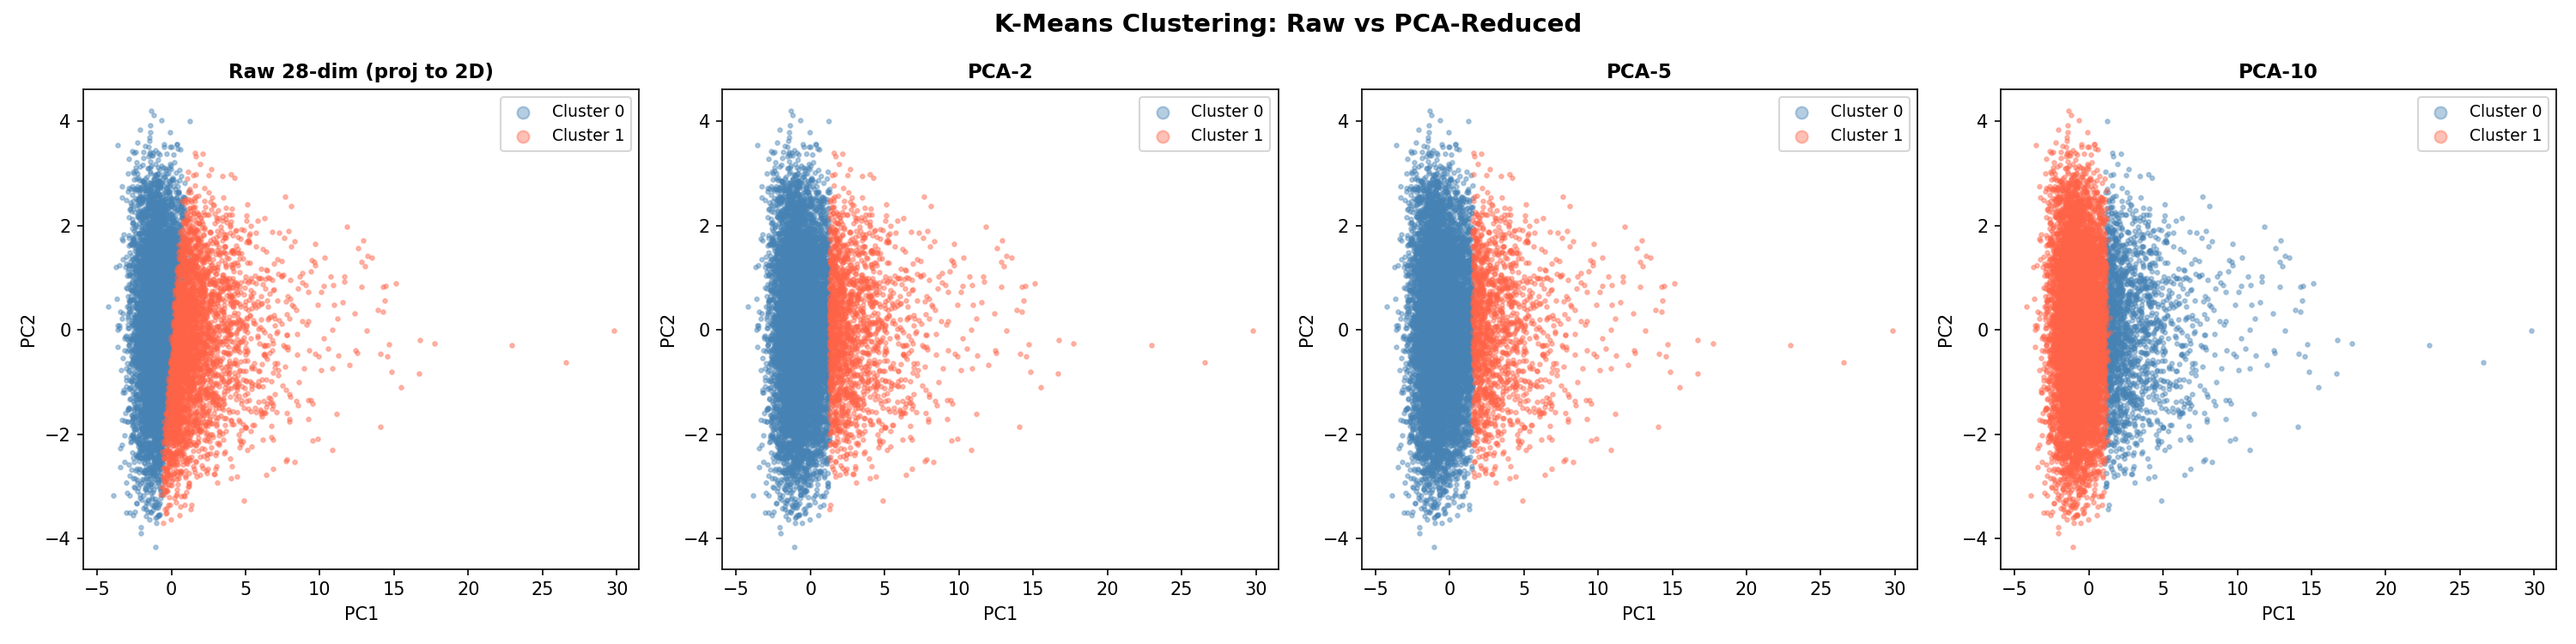
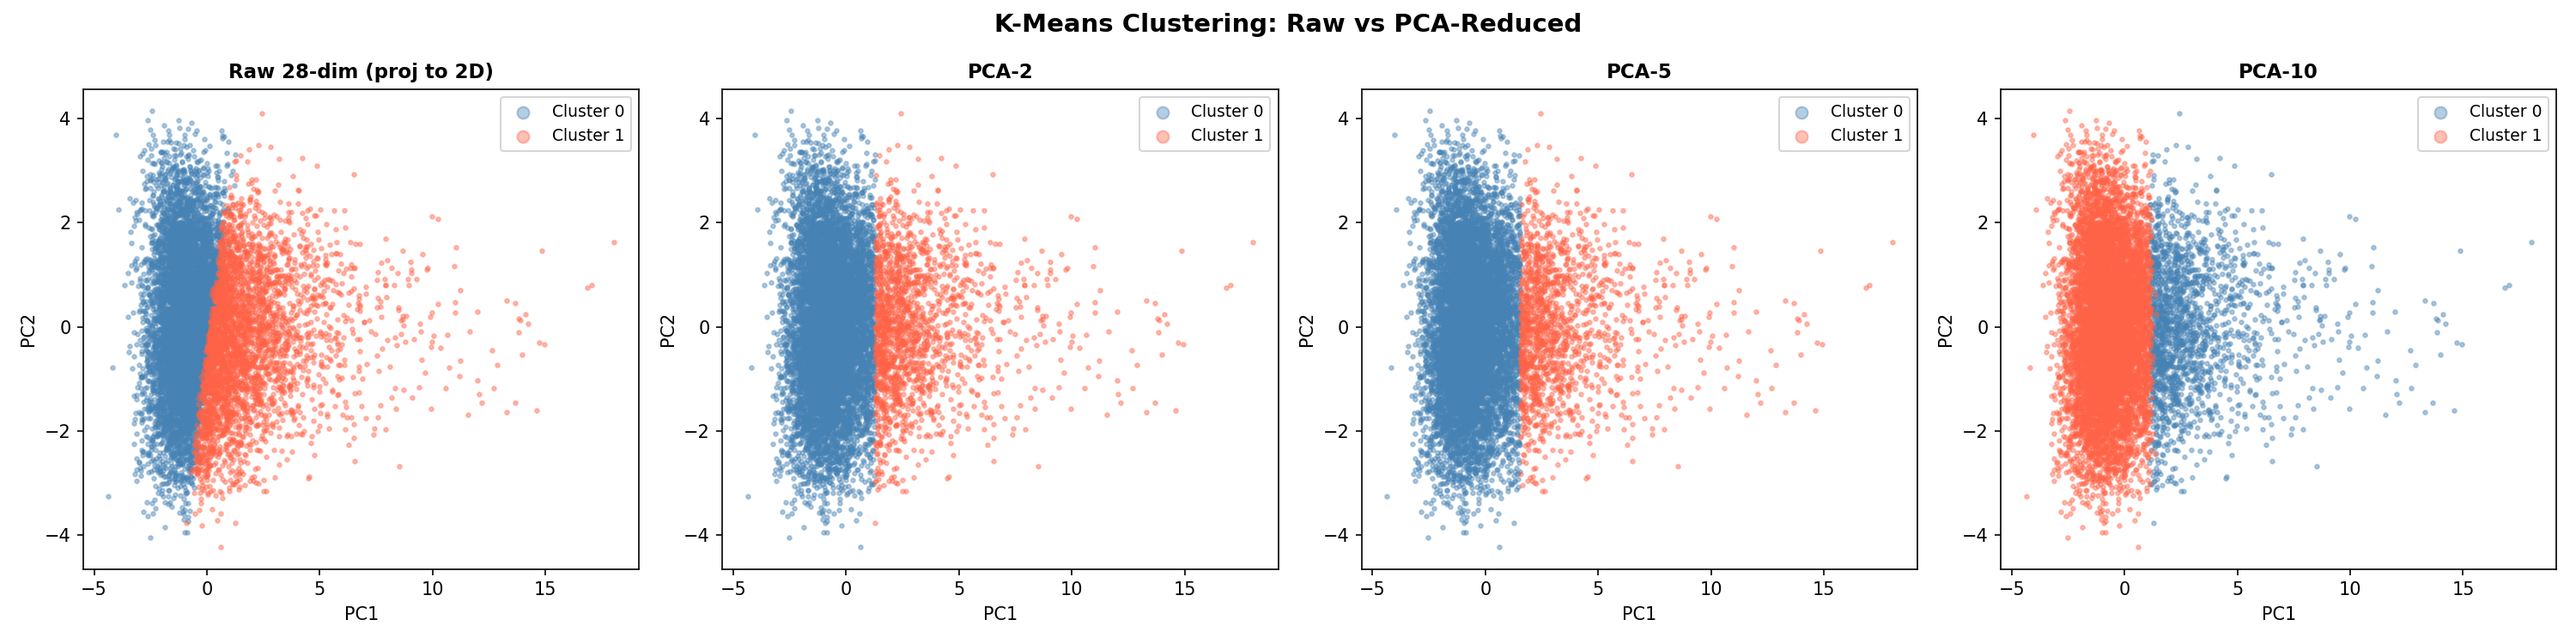
Saved PCA 10 to seperate file

diff --git a/KMeans.py b/KMeans.py
@@ -9,7 +9,7 @@ import time
 import matplotlib.pyplot as plt
 
 data = pd.read_csv(
-    "Data/HIGGS.csv.gz",
+    "Data/raw/HIGGS.csv.gz",
     header = None,
     compression = "gzip",
     nrows = 1000000
@@ -65,6 +65,9 @@ for n in pca_components:
     # show how much variance is preserved
     explained_var = np.sum(pca.explained_variance_ratio_)
     print(f"PCA with {n} components preserves {explained_var:.2%} of variance")
+
+    if n == 10:
+        pd.DataFrame(X_pca).to_csv("pca_10_data.csv", index=False)
 
 
 #Part 3 of re running the Kmeans again with subsampling
